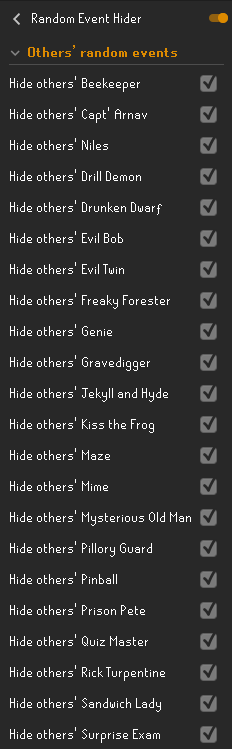
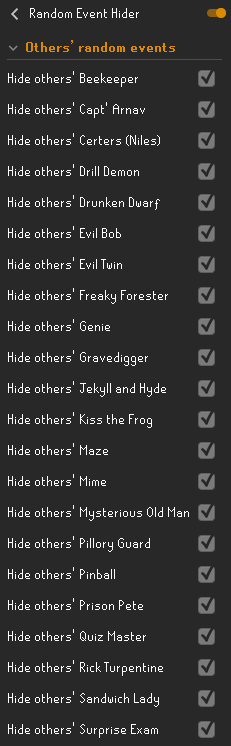
Change Niles to Certers
RL now refers to Niles etc. as Certers (random events plugin)

diff --git a/src/main/java/com/ywcode/randomeventhider/RandomEventHiderConfig.java b/src/main/java/com/ywcode/randomeventhider/RandomEventHiderConfig.java
@@ -44,8 +44,8 @@ public interface RandomEventHiderConfig extends Config
 
 	@ConfigItem(
 			keyName = "hideOtherNiles",
-			name = "Hide others' Niles",
-			description = "Hide the Niles, Miles, Giles random event of other players",
+			name = "Hide others' Certers (Niles)",
+			description = "Hide the Certers (Niles, Miles, Giles) random event of other players",
 			position = 2,
 			section = othersRandomsCategory
 	)
@@ -286,8 +286,8 @@ public interface RandomEventHiderConfig extends Config
 
 	@ConfigItem(
 			keyName = "hideOwnNiles",
-			name = "Hide your own Niles",
-			description = "Hide your own Niles, Miles, Giles random event",
+			name = "Hide your own Certers (Niles)",
+			description = "Hide your own Certers (Niles, Miles, Giles) random event",
 			position = 2,
 			section = ownRandomsCategory
 	)
